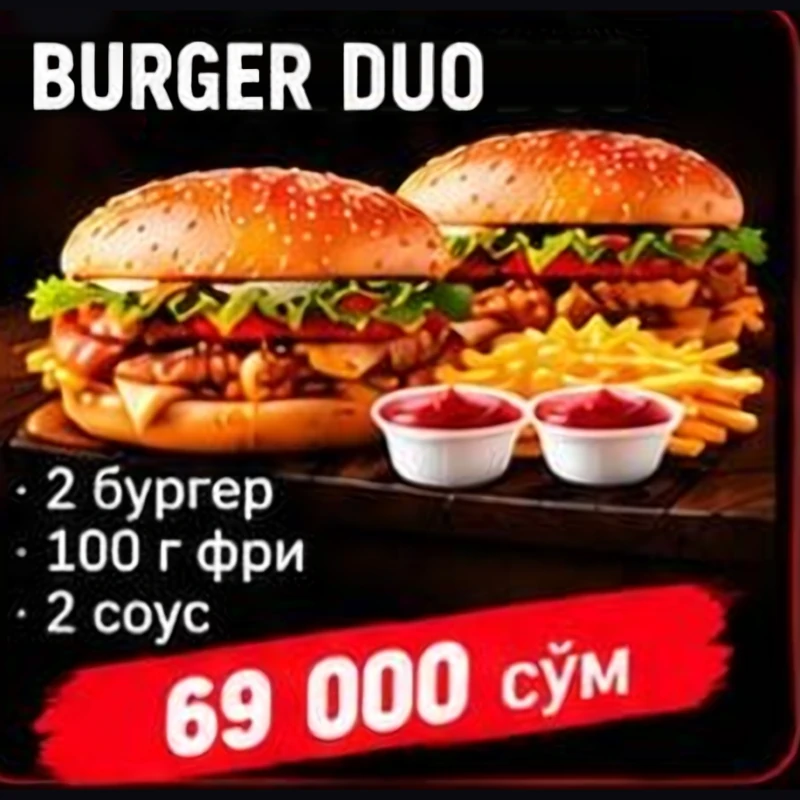
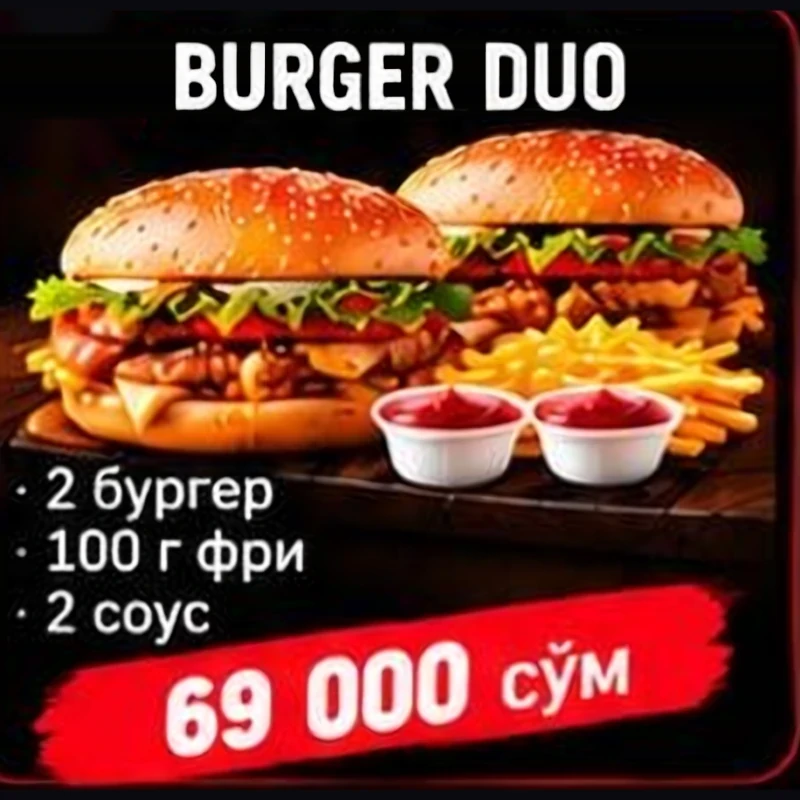
Kombo rasmlari: sarlavha o'rtada, eski yozuv qoldiqlari tozalandi
- 15 ta kombo rasmi (04-18): nom tepada o'rtaga ko'chirildi; Chick & Burger'dagi "ER",
  Big Chick Family'dagi "Y", Mega Party'dagi belgi qoldiqlari o'chirildi. Rasmning boshqa qismi o'zgarmagan
- ASSET_VERSION va Mini App ?v=20 (rasm keshi yangilanadi)

Changed region(s): [[0.0312, 0.0312, 0.7812, 0.1562]]

diff --git a/miniapp/index.html b/miniapp/index.html
@@ -15,12 +15,12 @@
   <!-- Telegram WebApp SDK boshqa skriptlardan oldin yuklanishi kerak -->
   <script src="https://telegram.org/js/telegram-web-app.js"></script>
   <!-- ?v=N: Telegram eski keshni ko'rsatmasligi uchun; har o'zgarishda raqamni oshiring -->
-  <link rel="stylesheet" href="style.css?v=19">
+  <link rel="stylesheet" href="style.css?v=20">
   <!-- Interfeys matnlari (uz/ru) va bot natijasini qo'llash - app.js dan oldin -->
-  <script src="i18n.js?v=19" defer></script>
-  <script src="config.js?v=19" defer></script>
-  <script src="result.js?v=19" defer></script>
-  <script src="app.js?v=19" defer></script>
+  <script src="i18n.js?v=20" defer></script>
+  <script src="config.js?v=20" defer></script>
+  <script src="result.js?v=20" defer></script>
+  <script src="app.js?v=20" defer></script>
 </head>
 <body>
   <div id="app" class="app">

diff --git a/miniapp/app.js b/miniapp/app.js
@@ -10,7 +10,7 @@
   const MENU_URL = 'menu.json';
   // Rasm URL'lariga ?v= qo'shiladi: _headers'da rasmlar 1 kun keshlanadi, shuning uchun rasm fayli nomini
   // o'zgartirmasdan almashtirilsa - shu raqamni (va index.html dagi ?v= ni, ikkalasi bir xil) oshiring.
-  const ASSET_VERSION = '19';
+  const ASSET_VERSION = '20';
   const LIMITS = {
     nameMin: 2,
     nameMax: 50,
